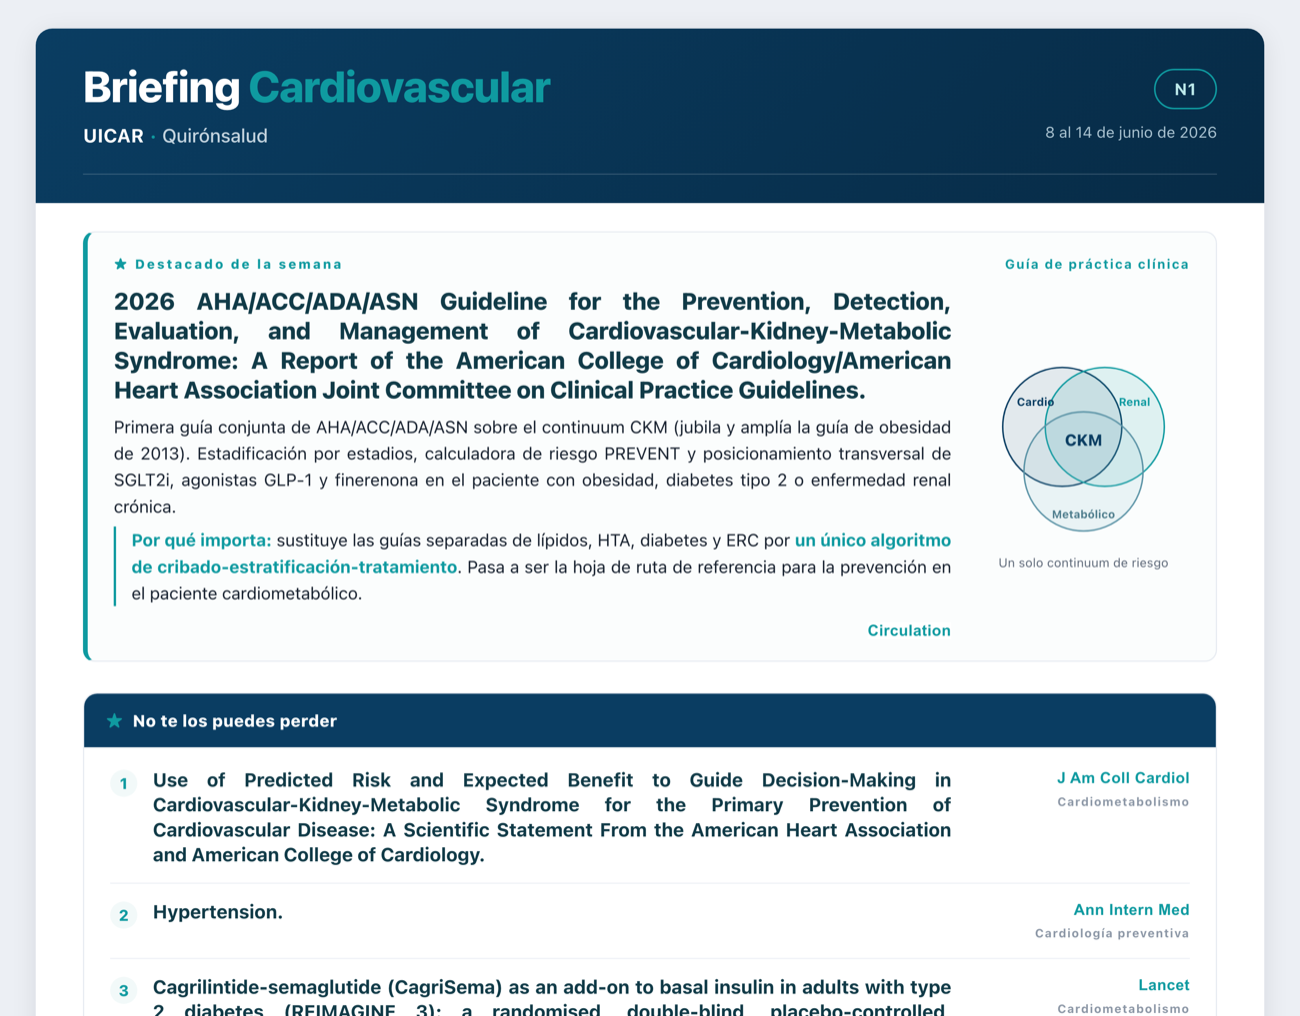
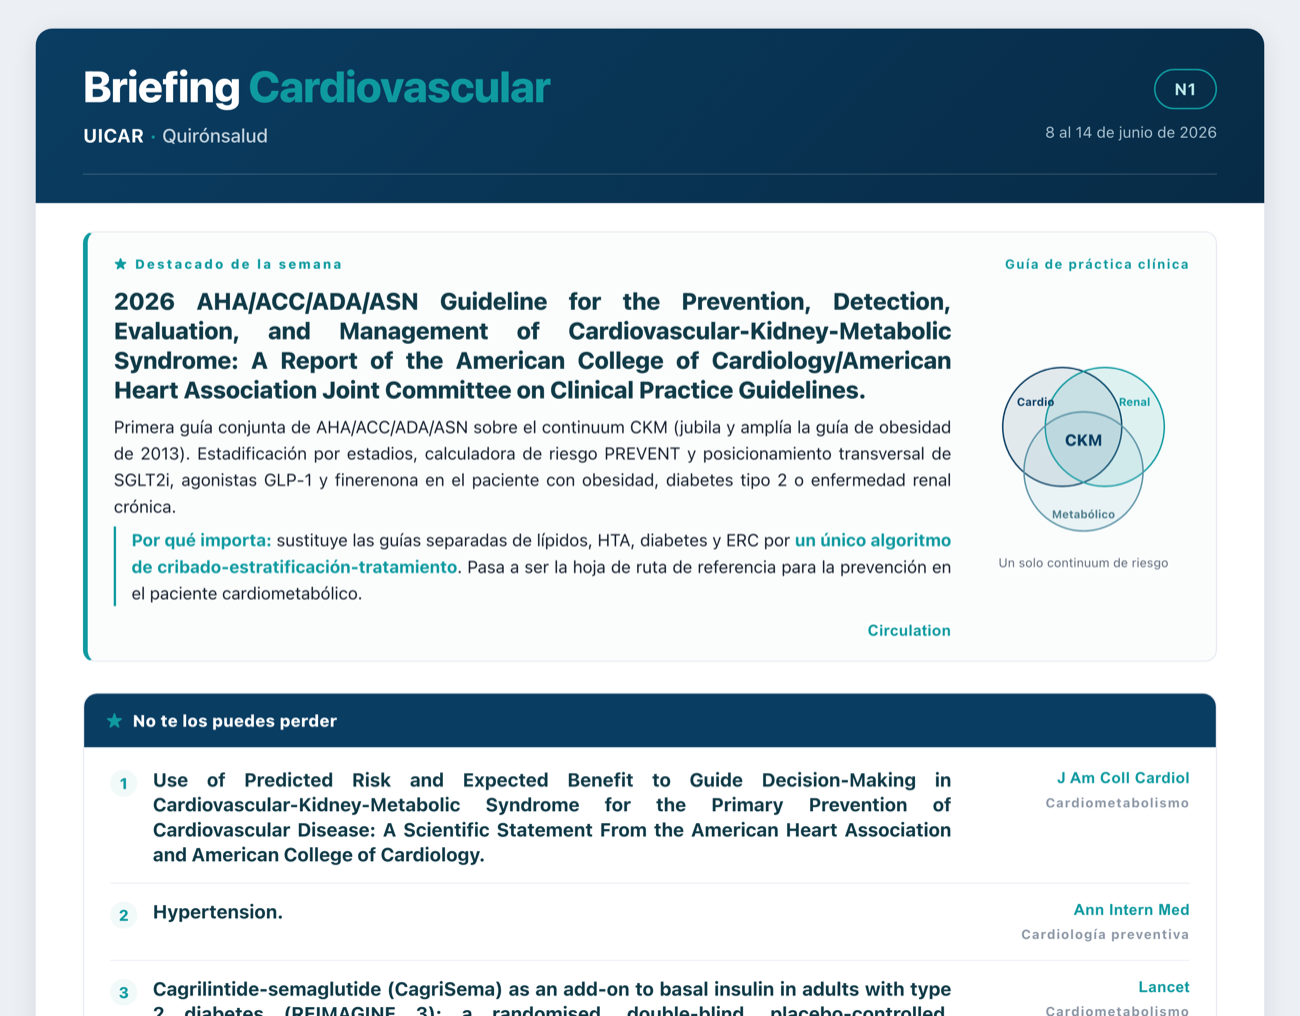
Tipografía: etiquetas sobre el título y Top3 a 11px (igualadas); tipo en pop-up a 13px (= nombre de revista). N0 y N1.

Changed region(s): [[0.0923, 0.9459, 0.7385, 1.0], [0.8, 0.9154, 0.9231, 1.0], [0.8, 0.7628, 0.9231, 0.7933]]

diff --git a/n0/index.html b/n0/index.html
@@ -72,7 +72,7 @@
     text-align:justify;display:block;cursor:pointer;}
   .top3 .t3t:hover{color:var(--teal);}
   .top3 .t3aside{text-align:right;display:flex;flex-direction:column;align-items:flex-end;gap:5px;padding-top:2px;}
-  .top3 .t3s{font-size:10px;font-weight:700;letter-spacing:.07em;text-transform:none;color:var(--suave);}
+  .top3 .t3s{font-size:11px;font-weight:700;letter-spacing:.07em;text-transform:none;color:var(--suave);}
 
   /* ÍNDICE / SECCIONES */
   .indice{margin:24px 0 4px;border:1px solid var(--linea);border-radius:10px;padding:6px;}
@@ -186,7 +186,7 @@
   .cmodal-box{position:relative;z-index:1;background:#fff;max-width:700px;width:100%;max-height:88vh;overflow-y:auto;-webkit-overflow-scrolling:touch;border-radius:14px;padding:26px 30px 30px;box-shadow:0 18px 50px rgba(0,0,0,.35);}
   .cmodal-x{position:absolute;top:6px;right:16px;font-size:30px;line-height:1;color:var(--suave);text-decoration:none;cursor:pointer;}
   .cmodal-x:hover{color:var(--navy);}
-  .modal-type{font-size:11px;font-weight:700;letter-spacing:.1em;text-transform:none;color:var(--teal);margin-bottom:8px;}
+  .modal-type{font-size:13px;font-weight:700;letter-spacing:.1em;text-transform:none;color:var(--teal);margin-bottom:8px;}
   .modal-title{margin:0 0 16px;font-size:20px;font-weight:800;color:var(--titulo);line-height:1.3;padding-right:26px;}
   .modal-body{font-size:14.5px;color:#37414f;line-height:1.6;text-align:justify;}
   .modal-body p{margin:0 0 11px;} .modal-body b{color:var(--navy);}

diff --git a/n1/index.html b/n1/index.html
@@ -72,7 +72,7 @@
     text-align:justify;display:block;cursor:pointer;}
   .top3 .t3t:hover{color:var(--teal);}
   .top3 .t3aside{text-align:right;display:flex;flex-direction:column;align-items:flex-end;gap:5px;padding-top:2px;}
-  .top3 .t3s{font-size:10px;font-weight:700;letter-spacing:.07em;text-transform:none;color:var(--suave);}
+  .top3 .t3s{font-size:11px;font-weight:700;letter-spacing:.07em;text-transform:none;color:var(--suave);}
 
   /* ÍNDICE / SECCIONES */
   .indice{margin:24px 0 4px;border:1px solid var(--linea);border-radius:10px;padding:6px;}
@@ -186,7 +186,7 @@
   .cmodal-box{position:relative;z-index:1;background:#fff;max-width:700px;width:100%;max-height:88vh;overflow-y:auto;-webkit-overflow-scrolling:touch;border-radius:14px;padding:26px 30px 30px;box-shadow:0 18px 50px rgba(0,0,0,.35);}
   .cmodal-x{position:absolute;top:6px;right:16px;font-size:30px;line-height:1;color:var(--suave);text-decoration:none;cursor:pointer;}
   .cmodal-x:hover{color:var(--navy);}
-  .modal-type{font-size:11px;font-weight:700;letter-spacing:.1em;text-transform:none;color:var(--teal);margin-bottom:8px;}
+  .modal-type{font-size:13px;font-weight:700;letter-spacing:.1em;text-transform:none;color:var(--teal);margin-bottom:8px;}
   .modal-title{margin:0 0 16px;font-size:20px;font-weight:800;color:var(--titulo);line-height:1.3;padding-right:26px;}
   .modal-body{font-size:14.5px;color:#37414f;line-height:1.6;text-align:justify;}
   .modal-body p{margin:0 0 11px;} .modal-body b{color:var(--navy);}

diff --git a/generador/gen_briefing_reference.py b/generador/gen_briefing_reference.py
@@ -200,7 +200,7 @@ HTML = f'''<!DOCTYPE html>
     text-align:justify;display:block;cursor:pointer;}}
   .top3 .t3t:hover{{color:var(--teal);}}
   .top3 .t3aside{{text-align:right;display:flex;flex-direction:column;align-items:flex-end;gap:5px;padding-top:2px;}}
-  .top3 .t3s{{font-size:10px;font-weight:700;letter-spacing:.07em;text-transform:none;color:var(--suave);}}
+  .top3 .t3s{{font-size:11px;font-weight:700;letter-spacing:.07em;text-transform:none;color:var(--suave);}}
 
   /* ÍNDICE / SECCIONES */
   .indice{{margin:24px 0 4px;border:1px solid var(--linea);border-radius:10px;padding:6px;}}
@@ -314,7 +314,7 @@ HTML = f'''<!DOCTYPE html>
   .cmodal-box{{position:relative;z-index:1;background:#fff;max-width:700px;width:100%;max-height:88vh;overflow-y:auto;-webkit-overflow-scrolling:touch;border-radius:14px;padding:26px 30px 30px;box-shadow:0 18px 50px rgba(0,0,0,.35);}}
   .cmodal-x{{position:absolute;top:6px;right:16px;font-size:30px;line-height:1;color:var(--suave);text-decoration:none;cursor:pointer;}}
   .cmodal-x:hover{{color:var(--navy);}}
-  .modal-type{{font-size:11px;font-weight:700;letter-spacing:.1em;text-transform:none;color:var(--teal);margin-bottom:8px;}}
+  .modal-type{{font-size:13px;font-weight:700;letter-spacing:.1em;text-transform:none;color:var(--teal);margin-bottom:8px;}}
   .modal-title{{margin:0 0 16px;font-size:20px;font-weight:800;color:var(--titulo);line-height:1.3;padding-right:26px;}}
   .modal-body{{font-size:14.5px;color:#37414f;line-height:1.6;text-align:justify;}}
   .modal-body p{{margin:0 0 11px;}} .modal-body b{{color:var(--navy);}}